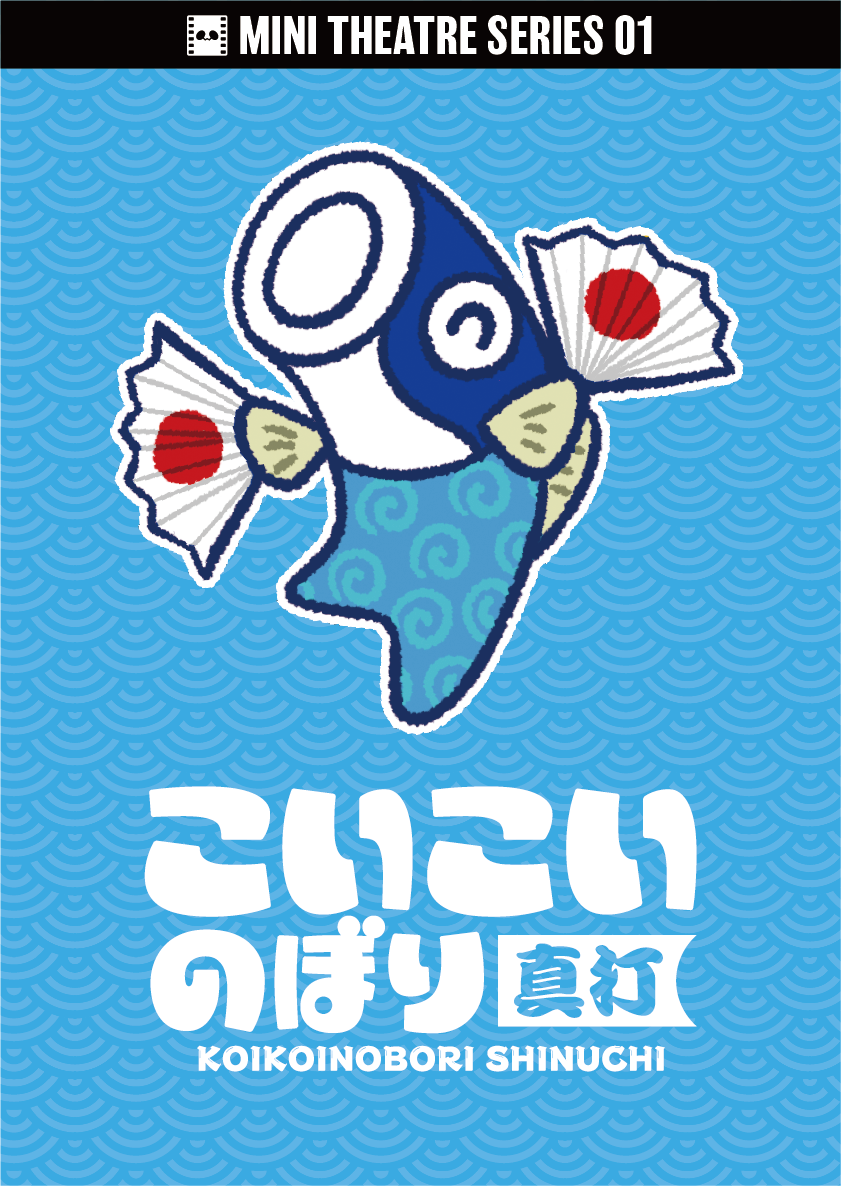
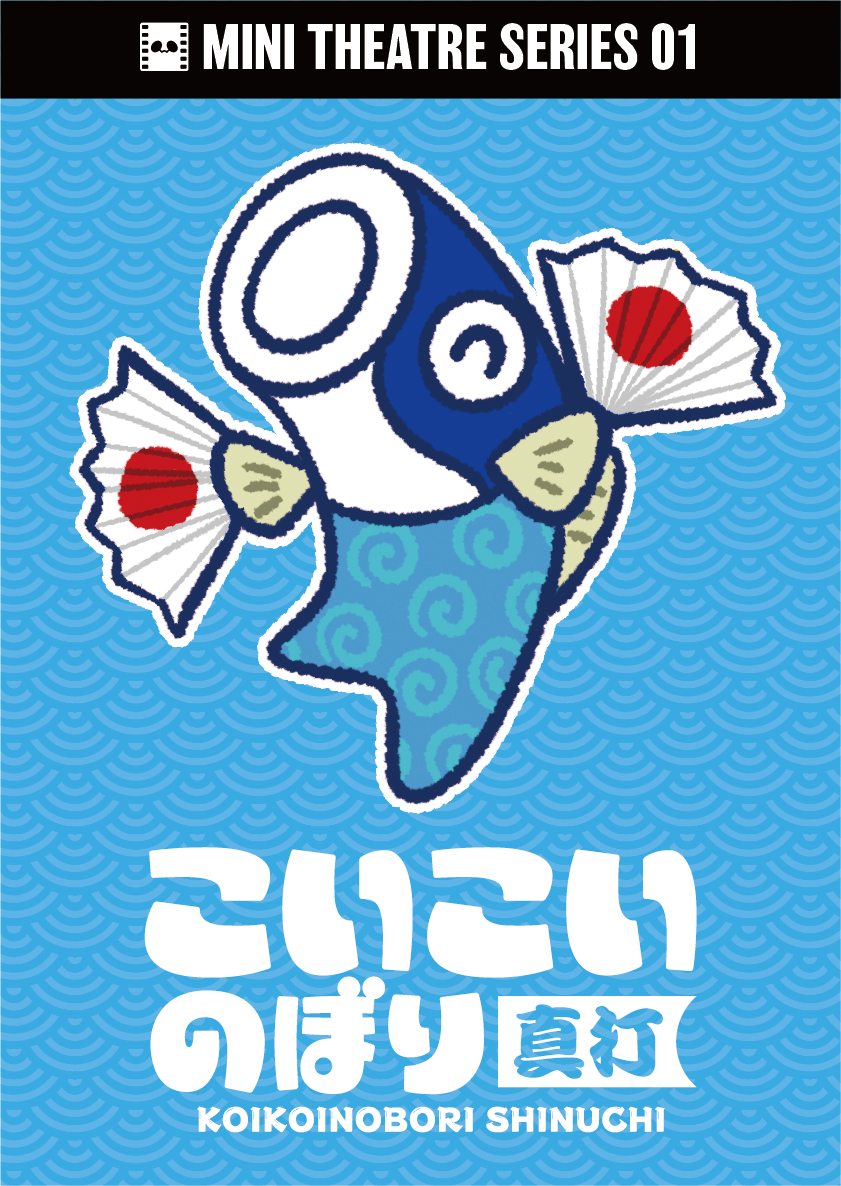
ページを組み立て直し

diff --git a/new/index.html b/new/index.html
@@ -420,7 +420,7 @@
         <li class="card" style="--c1:#664498;--c2:#fdd000"><input class="sr" type="radio" name="board" id="c-trico"><label class="c-face" for="c-trico"><img src="img/card/trico_bdg.png?v=f8773036" alt="TRICO!" loading="lazy"></label><div class="c-open"><img class="o-pkg" src="img/package/pkg_trico.webp?v=c0be06e2" alt="" loading="lazy"><div class="o-txt"><span class="o-logo" role="img" aria-label="TRICO!" style="--lg:url(img/logo/logo_trico.png?v=ae9f7735);aspect-ratio:1021/382;--lc:#664498"></span><span class="pill" style="--pc:#664498;--pt:#fdd000">2〜3<span lang="ja">人</span><span lang="en"> players</span> / 10〜15<span lang="ja">分</span><span lang="en"> min</span> / 6<span lang="ja">歳から</span><span lang="en">+</span></span><p class="o-genre"><span lang="ja">ジャンル:</span><span lang="en">Genre: </span><span lang="ja">セットコレクション・バッティング</span><span lang="en">Set collection / Simultaneous play</span></p><div class="o-btns"><a class="wb" href="games/trico/"><b class="ar" aria-hidden="true">▶</b><span lang="ja">見る</span><span lang="en">View</span></a><a class="wb" href="https://pandakinema.booth.pm/" target="_blank" rel="noopener"><b class="ar" aria-hidden="true">▶</b><span lang="ja">BOOTHで購入</span><span lang="en">Buy on BOOTH</span></a></div></div><label class="o-x" for="board-x" aria-label="とじる"></label></div></li>
         <li class="card" style="--c1:#ffffff;--c2:#0073bd"><input class="sr" type="radio" name="board" id="c-ikatako"><label class="c-face" for="c-ikatako"><img src="img/card/ikatako_bdg.png?v=bfbb205c" alt="イカタコ" loading="lazy"></label><div class="c-open"><img class="o-pkg" src="img/package/pkg_ikatako.webp?v=09232251" alt="" loading="lazy"><div class="o-txt"><span class="o-logo" role="img" aria-label="イカタコ" style="--lg:url(img/logo/logo_ikatako.png?v=02d95a4c);aspect-ratio:1270/340;--lc:#ffffff"></span><span class="pill" style="--pc:#ffffff;--pt:#0073bd">1〜6<span lang="ja">人</span><span lang="en"> players</span> / 5〜15<span lang="ja">分</span><span lang="en"> min</span> / 8<span lang="ja">歳から</span><span lang="en">+</span></span><p class="o-genre"><span lang="ja">ジャンル:</span><span lang="en">Genre: </span><span lang="ja">リアクション・反射神経</span><span lang="en">Reaction / Reflexes</span></p><div class="o-btns"><a class="wb" href="https://gamemarket.jp/game/186696" target="_blank" rel="noopener"><b class="ar" aria-hidden="true">▶</b><span lang="ja">見る</span><span lang="en">View</span></a><a class="wb" href="https://pandakinema.booth.pm/" target="_blank" rel="noopener"><b class="ar" aria-hidden="true">▶</b><span lang="ja">BOOTHで購入</span><span lang="en">Buy on BOOTH</span></a></div></div><label class="o-x" for="board-x" aria-label="とじる"></label></div></li>
         <li class="card" style="--c1:#f19ebc;--c2:#39278b"><input class="sr" type="radio" name="board" id="c-moko"><label class="c-face" for="c-moko"><img src="img/card/mocochaka_bdg.png?v=5a20c323" alt="モコチャカ" loading="lazy"></label><div class="c-open"><img class="o-pkg" src="img/package/pkg_moko.webp?v=bd55ef37" alt="" loading="lazy"><div class="o-txt"><span class="o-logo" role="img" aria-label="モコチャカ" style="--lg:url(img/logo/logo_moko.png?v=62ab4b98);aspect-ratio:1282/240;--lc:#f19ebc"></span><span class="pill" style="--pc:#f19ebc;--pt:#39278b">2〜4<span lang="ja">人</span><span lang="en"> players</span> / 10〜15<span lang="ja">分</span><span lang="en"> min</span> / 6<span lang="ja">歳から</span><span lang="en">+</span></span><p class="o-genre"><span lang="ja">ジャンル:</span><span lang="en">Genre: </span><span lang="ja">パターン認識・アクション</span><span lang="en">Pattern recognition / Action</span></p><div class="o-btns"><a class="wb" href="https://gamemarket.jp/game/187698" target="_blank" rel="noopener"><b class="ar" aria-hidden="true">▶</b><span lang="ja">見る</span><span lang="en">View</span></a><a class="wb" href="https://pandakinema.booth.pm/" target="_blank" rel="noopener"><b class="ar" aria-hidden="true">▶</b><span lang="ja">BOOTHで購入</span><span lang="en">Buy on BOOTH</span></a></div></div><label class="o-x" for="board-x" aria-label="とじる"></label></div></li>
-        <li class="card" style="--c1:#ffffff;--c2:#48b0e5"><input class="sr" type="radio" name="board" id="c-koikoi"><label class="c-face" for="c-koikoi"><img src="img/card/koikoi_bdg.png?v=7c92af56" alt="こいこいのぼり 真打" loading="lazy"></label><div class="c-open"><img class="o-pkg wide" src="img/package/mini_koikoi.webp?v=f2df86ff" alt="" loading="lazy"><div class="o-txt"><img class="o-logo" src="img/logo/koikoilogo.png?v=bc68f6cc" alt="こいこいのぼり 真打" width="1009" height="522"><span class="pill" style="--pc:#ffffff;--pt:#48b0e5">2<span lang="ja">人</span><span lang="en"> players</span> / 5〜10<span lang="ja">分</span><span lang="en"> min</span> / 6<span lang="ja">歳から</span><span lang="en">+</span></span><p class="o-genre"><span lang="ja">ジャンル:</span><span lang="en">Genre: </span><span lang="ja">花札風セットコレクション</span><span lang="en">Hanafuda-style set collection</span></p><div class="o-btns"><span class="wb off" title="準備中"><b class="ar" aria-hidden="true">▶</b><span lang="ja">見る</span><span lang="en">View</span></span><a class="wb" href="https://pandakinema.booth.pm/" target="_blank" rel="noopener"><b class="ar" aria-hidden="true">▶</b><span lang="ja">BOOTHで購入</span><span lang="en">Buy on BOOTH</span></a></div></div><label class="o-x" for="board-x" aria-label="とじる"></label></div></li>
+        <li class="card" style="--c1:#ffffff;--c2:#48b0e5"><input class="sr" type="radio" name="board" id="c-koikoi"><label class="c-face" for="c-koikoi"><img src="img/card/koikoi_bdg.png?v=a1377913" alt="こいこいのぼり 真打" loading="lazy"></label><div class="c-open"><img class="o-pkg wide" src="img/package/mini_koikoi.webp?v=f2df86ff" alt="" loading="lazy"><div class="o-txt"><img class="o-logo" src="img/logo/koikoilogo.png?v=bc68f6cc" alt="こいこいのぼり 真打" width="1009" height="522"><span class="pill" style="--pc:#ffffff;--pt:#48b0e5">2<span lang="ja">人</span><span lang="en"> players</span> / 5〜10<span lang="ja">分</span><span lang="en"> min</span> / 6<span lang="ja">歳から</span><span lang="en">+</span></span><p class="o-genre"><span lang="ja">ジャンル:</span><span lang="en">Genre: </span><span lang="ja">花札風セットコレクション</span><span lang="en">Hanafuda-style set collection</span></p><div class="o-btns"><span class="wb off" title="準備中"><b class="ar" aria-hidden="true">▶</b><span lang="ja">見る</span><span lang="en">View</span></span><a class="wb" href="https://pandakinema.booth.pm/" target="_blank" rel="noopener"><b class="ar" aria-hidden="true">▶</b><span lang="ja">BOOTHで購入</span><span lang="en">Buy on BOOTH</span></a></div></div><label class="o-x" for="board-x" aria-label="とじる"></label></div></li>
         <li class="card" style="--c1:#ffffff;--c2:#e60039"><input class="sr" type="radio" name="board" id="c-bash"><label class="c-face" for="c-bash"><img src="img/card/bash_bdg.png?v=492ce9bd" alt="BASH&amp;SMASH" loading="lazy"></label><div class="c-open"><img class="o-pkg wide" src="img/package/mini_bash.webp?v=2f9d2e36" alt="" loading="lazy"><div class="o-txt"><img class="o-logo" src="img/logo/bashlogo_4C.png?v=05a46cc7" alt="BASH&amp;SMASH" width="620" height="490"><span class="pill" style="--pc:#ffffff;--pt:#e60039">2<span lang="ja">人</span><span lang="en"> players</span> / 5〜10<span lang="ja">分</span><span lang="en"> min</span> / 6<span lang="ja">歳から</span><span lang="en">+</span></span><p class="o-genre"><span lang="ja">ジャンル:</span><span lang="en">Genre: </span><span lang="ja">対戦格闘風読み合いゲーム</span><span lang="en">Fighting-game-style mind game</span></p><div class="o-btns"><span class="wb off" title="準備中"><b class="ar" aria-hidden="true">▶</b><span lang="ja">見る</span><span lang="en">View</span></span><a class="wb" href="https://pandakinema.booth.pm/" target="_blank" rel="noopener"><b class="ar" aria-hidden="true">▶</b><span lang="ja">BOOTHで購入</span><span lang="en">Buy on BOOTH</span></a></div></div><label class="o-x" for="board-x" aria-label="とじる"></label></div></li>
     </ul>
     <div class="pager js-only" data-for="boardrow"><button class="tri prev" type="button" aria-label="前へ"></button><div class="pd"></div><button class="tri next" type="button" aria-label="次へ"></button></div>

diff --git a/new/games/trico/index.html b/new/games/trico/index.html
@@ -813,7 +813,7 @@
       <li><a class="bg-card" href="../bibilu/"><img src="../../img/card/bibilu_bdg.png?v=39be0d75" alt="ビビルの塔" loading="lazy"><span class="bg-new"><span class="cap">NEW</span></span></a></li>
       <li><a class="bg-card" href="https://gamemarket.jp/game/186696" target="_blank" rel="noopener"><img src="../../img/card/ikatako_bdg.png?v=bfbb205c" alt="イカタコ" loading="lazy"></a></li>
       <li><a class="bg-card" href="https://gamemarket.jp/game/187698" target="_blank" rel="noopener"><img src="../../img/card/mocochaka_bdg.png?v=5a20c323" alt="モコチャカ" loading="lazy"></a></li>
-      <li><a class="bg-card" href="../../#board"><img src="../../img/card/koikoi_bdg.png?v=7c92af56" alt="こいこいのぼり 真打" loading="lazy"></a></li>
+      <li><a class="bg-card" href="../../#board"><img src="../../img/card/koikoi_bdg.png?v=a1377913" alt="こいこいのぼり 真打" loading="lazy"></a></li>
       <li><a class="bg-card" href="../../#board"><img src="../../img/card/bash_bdg.png?v=492ce9bd" alt="BASH&amp;SMASH" loading="lazy"></a></li>
       <li><a class="bg-card bg-tool" href="https://pandakinema.github.io/bibilu-moji/" target="_blank" rel="noopener" style="background:#163f53;color:#ffffff"><span class="bt-tupa"><img class="tb" src="../../img/chara/b_tupa_body.webp?v=f35a06f0" alt=""><img class="to" src="../../img/chara/b_tupa_orb.webp?v=3f820354" alt=""></span><span class="bt-name"><img class="bt-title" src="../../img/logo/moji_title.png?v=ea6476ce" alt="ビビル文字ジェネレータ" loading="lazy"></span></a></li>
       <li><a class="bg-card bg-tool" href="https://pandakinema.github.io/card-mock-maker/" target="_blank" rel="noopener" style="background:#2a3138;color:#ffffff"><img class="bt-shot" src="../../img/tools/tool_cmm_thumb.webp?v=cb45d90f" alt="" loading="lazy"><span class="bt-name">カードモックツクール β</span></a></li>

diff --git a/new/games/bibilu/index.html b/new/games/bibilu/index.html
@@ -752,7 +752,7 @@
       <li><a class="bg-card" href="../trico/"><img src="../../img/card/trico_bdg.png?v=f8773036" alt="TRICO!" loading="lazy"></a></li>
       <li><a class="bg-card" href="https://gamemarket.jp/game/186696" target="_blank" rel="noopener"><img src="../../img/card/ikatako_bdg.png?v=bfbb205c" alt="イカタコ" loading="lazy"></a></li>
       <li><a class="bg-card" href="https://gamemarket.jp/game/187698" target="_blank" rel="noopener"><img src="../../img/card/mocochaka_bdg.png?v=5a20c323" alt="モコチャカ" loading="lazy"></a></li>
-      <li><a class="bg-card" href="../../#board"><img src="../../img/card/koikoi_bdg.png?v=7c92af56" alt="こいこいのぼり 真打" loading="lazy"></a></li>
+      <li><a class="bg-card" href="../../#board"><img src="../../img/card/koikoi_bdg.png?v=a1377913" alt="こいこいのぼり 真打" loading="lazy"></a></li>
       <li><a class="bg-card" href="../../#board"><img src="../../img/card/bash_bdg.png?v=492ce9bd" alt="BASH&amp;SMASH" loading="lazy"></a></li>
       <li><a class="bg-card bg-tool" href="https://pandakinema.github.io/bibilu-moji/" target="_blank" rel="noopener" style="background:#163f53;color:#ffffff"><span class="bt-tupa"><img class="tb" src="../../img/chara/b_tupa_body.webp?v=f35a06f0" alt=""><img class="to" src="../../img/chara/b_tupa_orb.webp?v=3f820354" alt=""></span><span class="bt-name"><img class="bt-title" src="../../img/logo/moji_title.png?v=ea6476ce" alt="ビビル文字ジェネレータ" loading="lazy"></span></a></li>
       <li><a class="bg-card bg-tool" href="https://pandakinema.github.io/card-mock-maker/" target="_blank" rel="noopener" style="background:#2a3138;color:#ffffff"><img class="bt-shot" src="../../img/tools/tool_cmm_thumb.webp?v=cb45d90f" alt="" loading="lazy"><span class="bt-name">カードモックツクール β</span></a></li>
